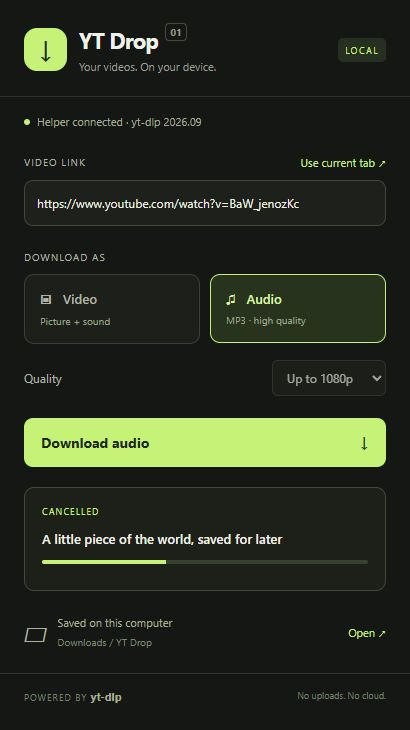
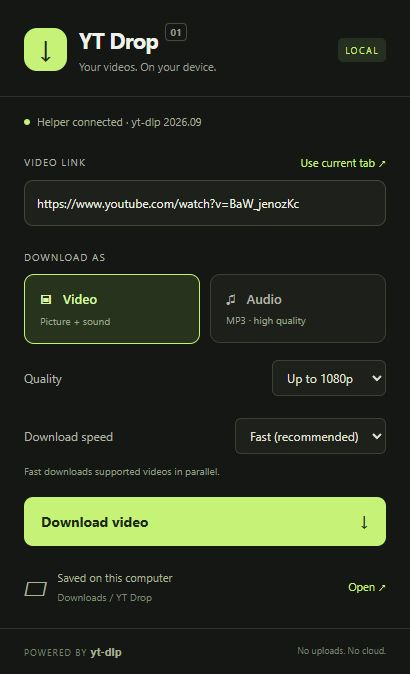
Speed up segmented downloads with default Fast mode

diff --git a/extension/popup.css b/extension/popup.css
@@ -1,1 +1,2 @@
 :root{color-scheme:dark;font-family:Inter,"Segoe UI",sans-serif;color:#f0f2ea;background:#151714;font-size:13px}*{box-sizing:border-box}body{width:410px;margin:0}header{display:flex;align-items:center;gap:12px;padding:25px 24px 22px;border-bottom:1px solid #30342c}.brand-mark{background:#c5f277;color:#20291a;font-size:31px;font-weight:600;width:43px;height:43px;display:grid;place-items:center;border-radius:13px}header strong{font-size:22px;letter-spacing:-.8px}.version{font-size:10px;vertical-align:top;color:#92998a;border:1px solid #464d3e;border-radius:4px;padding:1px 4px;margin-left:7px;letter-spacing:0}header p{color:#999f92;margin:4px 0 0;font-size:11px}.local{margin-left:auto;color:#c5f277;font-size:9px;letter-spacing:1.5px;background:#253020;padding:6px 7px;border-radius:5px}main{padding:0 24px}.connection{display:flex;align-items:center;gap:7px;font-size:11px;color:#a2aa99;padding:17px 0 24px;line-height:1.5}.connection #connection{flex:1}.dot{width:6px;height:6px;flex-shrink:0;border-radius:50%;background:#d7ad6d}.dot.ready{background:#c5f277}.label-row{display:flex;align-items:center;justify-content:space-between;margin-bottom:10px}label,legend,.history-label{font-size:10px;letter-spacing:1px;color:#b0b6a7}button,input,select{font:inherit}button{cursor:pointer}button:disabled{cursor:default;opacity:.4}.text-button{border:0;background:none;color:#c5f277;padding:0;font-size:11px;letter-spacing:0}.text-button:hover{text-decoration:underline}input[type=url]{width:100%;border:1px solid #414639;background:#1e211b;border-radius:9px;padding:14px 12px;color:#edf2e4;font-size:12px;outline:none}input::placeholder{color:#737b69}input:focus-visible,select:focus-visible,button:focus-visible{outline:2px solid #c5f277;outline-offset:3px}fieldset{border:0;margin:24px 0 16px;padding:0}legend{padding:0;margin-bottom:10px}.modes{display:flex;gap:10px}.mode{flex:1;position:relative;letter-spacing:0;cursor:pointer}.mode input{position:absolute;opacity:0}.mode span{display:block;padding:15px;border:1px solid #3a4032;border-radius:10px;background:#1d201a}.mode input:checked+span{border-color:#c5f277;background:#28331e;color:#d7f7a5}.mode input:focus-visible+span{outline:2px solid #c5f277;outline-offset:3px}.mode b{font-size:13px;font-weight:600}.mode small{display:block;margin-top:6px;color:#9ca58e;font-size:10px}.quality-row{display:flex;align-items:center;justify-content:space-between;margin:16px 0 22px}.quality-row label{font-size:12px;letter-spacing:0}select{background:#1e211b;border:1px solid #3a4032;color:#e0e5d8;border-radius:6px;padding:8px 10px;font-size:12px}.primary{display:flex;justify-content:space-between;align-items:center;width:100%;background:#c5f277;color:#1d2813;border:0;border-radius:9px;padding:15px 17px;font-weight:650;font-size:14px}.primary:hover:enabled{background:#d3ff8d}.primary span:last-child{font-size:20px;line-height:16px}.error{color:#ffb4a7;font-size:12px;line-height:1.5;overflow-wrap:anywhere;margin:12px 0}.job{padding:17px;margin-top:20px;border:1px solid #414936;border-radius:10px;background:#1c2019}.job-top{display:flex;justify-content:space-between;color:#c5f277;font-size:9px;letter-spacing:1.1px}h2{font-size:13px;font-weight:500;line-height:1.5;margin:12px 0;overflow-wrap:anywhere}progress{appearance:none;width:100%;height:4px;display:block;border:0;border-radius:8px;overflow:hidden;background:#384130}progress::-webkit-progress-bar{background:#384130}progress::-webkit-progress-value{background:#c5f277}.progress-meta{display:flex;justify-content:space-between;margin-top:9px;color:#a4af97;font-size:10px}.filename{font-size:10px;color:#aab59c;overflow-wrap:anywhere;margin-bottom:0}.destination{display:flex;align-items:center;gap:10px;margin:24px 0;color:#aab39c}.destination>span{font-size:24px}.destination div{flex:1;font-size:11px}.destination small{display:block;color:#7f8974;font-size:10px;margin-top:5px;overflow-wrap:anywhere;max-width:258px}footer{border-top:1px solid #30342c;padding:15px 24px;display:flex;justify-content:space-between;font-size:9px;color:#77816c}footer span:first-child{letter-spacing:1px}footer b{color:#a6b196;letter-spacing:0;font-size:11px}.history-label{margin-top:22px;font-size:9px}.history-label span:last-child{color:#697460;font-size:8px}ul{list-style:none;padding:0;margin:0}li{border-bottom:1px solid #2b3125;padding:9px 0;color:#a9b29d;font-size:11px;display:flex;gap:8px}li span:first-child{overflow:hidden;text-overflow:ellipsis;white-space:nowrap;flex:1}li span:last-child{font-size:9px;color:#859973}[hidden]{display:none!important}
+.speed-note{margin:-12px 0 18px;color:#929e84;font-size:10px;line-height:1.5}

diff --git a/extension/popup.js b/extension/popup.js
@@ -58,8 +58,8 @@ $("form").addEventListener("submit", async event => {
   event.preventDefault(); $("error").hidden = true;
   try {
     const url = youtubeUrl($("url").value);
-    await chrome.storage.local.set({ mode: mode(), quality: $("quality").value });
-    await send({ type: "download", url, mode: mode(), quality: $("quality").value });
+    await chrome.storage.local.set({ mode: mode(), quality: $("quality").value, speed: $("speed").value });
+    await send({ type: "download", url, mode: mode(), quality: $("quality").value, speed: $("speed").value });
   } catch (error) { showError(error); }
 });
 $("current").addEventListener("click", () => useCurrentTab());
@@ -69,9 +69,10 @@ for (const [id, type] of [["cancel", "cancel"], ["retry", "retry"], ["openFolder
 document.querySelectorAll('input[name="mode"]').forEach(input => input.addEventListener("change", updateMode));
 chrome.runtime.onMessage.addListener(message => { if (message.type === "state") render(message.state); });
 async function init() {
-  const saved = await chrome.storage.local.get(["mode", "quality"]);
+  const saved = await chrome.storage.local.get(["mode", "quality", "speed"]);
   if (["audio", "video"].includes(saved.mode)) document.querySelector(`input[value="${saved.mode}"]`).checked = true;
   if (["best", "2160", "1080", "720", "480"].includes(saved.quality)) $("quality").value = saved.quality;
+  if (["fast", "standard"].includes(saved.speed)) $("speed").value = saved.speed;
   updateMode();
   await useCurrentTab(true);
   await send({ type: "getState" });

diff --git a/tests/background.test.js b/tests/background.test.js
@@ -22,6 +22,7 @@ test('native download lifecycle survives popup requests, rejects concurrent jobs
   assert.equal(result.ok, true);
   const id = result.state.job.id;
   assert.equal(posted.at(-1).url, 'https://www.youtube.com/watch?v=BaW_jenozKc');
+  assert.equal(posted.at(-1).speed, 'fast');
   const duplicate = await request({ type: 'download' });
   assert.equal(duplicate.ok, false);
   onMessage({ type: 'job', id: 'unknown-job', status: 'complete' });
@@ -33,8 +34,13 @@ test('native download lifecycle survives popup requests, rejects concurrent jobs
   assert.deepEqual(posted.at(-1), { type: 'cancel', id });
   onMessage({ type: 'job', id, status: 'complete', filename: 'test.mkv' });
   assert.equal(stored.state.history.length, 1);
-  result = await request({ type: 'download', url: 'https://youtu.be/BaW_jenozKc', mode: 'audio', quality: 'best' });
+  const invalid = await request({ type: 'download', url: 'https://youtu.be/BaW_jenozKc', mode: 'audio', quality: 'best', speed: '--exec=calc' });
+  assert.equal(invalid.ok, false);
+  assert.equal(stored.state.job.status, 'complete');
+  result = await request({ type: 'download', url: 'https://youtu.be/BaW_jenozKc', mode: 'audio', quality: 'best', speed: 'standard' });
   assert.equal(result.ok, true);
+  assert.equal(posted.at(-1).speed, 'standard');
+  assert.equal(result.state.job.speed, 'standard');
   chrome.runtime.lastError = { message: 'Host closed' };
   onDisconnect();
   assert.equal(stored.state.job.status, 'error');

diff --git a/extension/background.js b/extension/background.js
@@ -66,7 +66,9 @@ chrome.runtime.onMessage.addListener((message, sender, respond) => {
       if (state.job && !TERMINAL.has(state.job.status)) throw new Error("Wait for the current download or cancel it.");
       const url = youtubeUrl(message.url);
       if (!["video", "audio"].includes(message.mode) || !["best", "2160", "1080", "720", "480"].includes(message.quality)) throw new Error("Invalid download options.");
-      state.job = { id: crypto.randomUUID(), url, mode: message.mode, quality: message.quality, status: "starting", title: "Getting video details…", percent: 0 };
+      const speed = message.speed === undefined ? "fast" : message.speed;
+      if (!["fast", "standard"].includes(speed)) throw new Error("Invalid download speed.");
+      state.job = { id: crypto.randomUUID(), url, mode: message.mode, quality: message.quality, speed, status: "starting", title: "Getting video details…", percent: 0 };
       port.postMessage({ type: "download", ...state.job });
       publish();
     } else if (message.type === "cancel" && state.job && !TERMINAL.has(state.job.status)) {

diff --git a/extension/popup.html b/extension/popup.html
@@ -13,6 +13,8 @@
         <label class="mode"><input type="radio" name="mode" value="audio"><span><b>♫ &nbsp; Audio</b><small>MP3 · high quality</small></span></label>
       </div></fieldset>
       <div class="quality-row"><label for="quality">Quality</label><select id="quality"><option value="1080">Up to 1080p</option><option value="720">Up to 720p</option><option value="480">Up to 480p</option><option value="2160">Up to 4K</option><option value="best">Best available</option></select></div>
+      <div class="quality-row"><label for="speed">Download speed</label><select id="speed" aria-describedby="speedHint"><option value="fast">Fast (recommended)</option><option value="standard">Standard</option></select></div>
+      <p id="speedHint" class="speed-note">Fast downloads supported videos in parallel.</p>
       <button id="download" class="primary" type="submit" disabled><span>Download video</span><span aria-hidden="true">↓</span></button>
       <p id="error" class="error" role="alert" hidden></p>
     </form>

diff --git a/tests/benchmark_fragments.py b/tests/benchmark_fragments.py
@@ -1,0 +1,129 @@
+"""Optional real yt-dlp benchmark using generated media and a delayed local server.
+
+Run with the helper's Python (yt-dlp installed) and FFmpeg/ffprobe on PATH:
+  python tests/benchmark_fragments.py --output-dir path/to/benchmark-results
+Results describe this synthetic workload, not promised YouTube transfer rates.
+"""
+import argparse
+import functools
+import hashlib
+from http.server import SimpleHTTPRequestHandler, ThreadingHTTPServer
+import json
+from pathlib import Path
+import shutil
+import subprocess
+import sys
+import threading
+import time
+
+sys.path.insert(0, str(Path(__file__).resolve().parents[1] / "native"))
+import host
+
+
+def main():
+    parser = argparse.ArgumentParser(description=__doc__)
+    parser.add_argument("--output-dir", required=True, type=Path)
+    args = parser.parse_args()
+    folder = args.output_dir.resolve() / str(time.time_ns())
+    folder.mkdir(parents=True)
+    ffmpeg, ffprobe = shutil.which("ffmpeg"), shutil.which("ffprobe")
+    runtime = "deno" if shutil.which("deno") else "node"
+    runtime_path = shutil.which(runtime)
+    if not all((ffmpeg, ffprobe, runtime_path)):
+        raise SystemExit("FFmpeg, ffprobe, and Node.js/Deno must be on PATH.")
+    subprocess.run([
+        ffmpeg, "-hide_banner", "-loglevel", "error", "-f", "lavfi", "-i", "testsrc2=size=320x180:rate=10",
+        "-f", "lavfi", "-i", "sine=frequency=440:sample_rate=44100", "-t", "8",
+        "-c:v", "libx264", "-preset", "ultrafast", "-g", "5", "-sc_threshold", "0",
+        "-c:a", "aac", "-f", "hls", "-hls_time", "0.5", "-hls_list_size", "0",
+        "-hls_segment_filename", str(folder / "part%03d.ts"), str(folder / "index.m3u8"),
+    ], check=True)
+
+    class Handler(SimpleHTTPRequestHandler):
+        lock = threading.Lock()
+        active = peak = requests = 0
+        first = last = None
+
+        def do_GET(self):
+            if not self.path.endswith(".ts"):
+                return super().do_GET()
+            with Handler.lock:
+                Handler.active += 1
+                Handler.requests += 1
+                Handler.peak = max(Handler.peak, Handler.active)
+                if Handler.first is None:
+                    Handler.first = time.perf_counter()
+            try:
+                # A controlled latency cost makes concurrency measurable without
+                # public servers, a fast WAN connection, or large downloads.
+                time.sleep(0.15)
+                super().do_GET()
+            finally:
+                with Handler.lock:
+                    Handler.active -= 1
+                    Handler.last = time.perf_counter()
+
+        def log_message(self, *args):
+            pass
+
+    class Server(ThreadingHTTPServer):
+        request_queue_size = 32
+
+    server = Server(("127.0.0.1", 0), functools.partial(Handler, directory=str(folder)))
+    thread = threading.Thread(target=server.serve_forever, daemon=True)
+    thread.start()
+    url = f"http://127.0.0.1:{server.server_port}/index.m3u8"
+    info = {"id": "fixture0001", "title": "Fragment benchmark", "extractor": "generic",
+            "extractor_key": "Generic", "webpage_url": url, "url": url, "ext": "mp4",
+            "protocol": "m3u8_native", "is_live": False, "height": 180, "width": 320,
+            "vcodec": "h264", "acodec": "aac"}
+    info_file = folder / "info.json"
+    info_file.write_text(json.dumps(info), encoding="utf-8")
+    results = {}
+    try:
+        for speed in ("standard", "fast"):
+            Handler.active = Handler.peak = Handler.requests = 0
+            Handler.first = Handler.last = None
+            config = {"download_dir": str(folder / speed), "ffmpeg": ffmpeg, "ffprobe": ffprobe,
+                      "runtime": runtime, "runtime_path": runtime_path}
+            events = []
+            bridge = host.Host(config, events.append)
+            bridge.job = "benchmark"
+            job = {"url": "https://youtu.be/BaW_jenozKc", "mode": "video", "quality": "480", "speed": speed}
+            command = host.build_command(job, config)
+            # Only this test substitutes local fixture metadata; the production
+            # helper continues to reject all non-YouTube input URLs.
+            command = command[:-2] + ["--load-info-json", str(info_file)]
+            start = time.perf_counter()
+            bridge.download("benchmark", command)
+            elapsed = time.perf_counter() - start
+            assert events[-1].get("status") == "complete", events[-1]
+            assert any(e.get("status") == "downloading" for e in events), events
+            output = Path(events[-1]["filename"])
+            probe = json.loads(subprocess.check_output([
+                ffprobe, "-v", "error", "-show_entries", "format=duration", "-of", "json", str(output)
+            ]))
+            assert float(probe["format"]["duration"]) >= 8
+            results[speed] = {"total_seconds": round(elapsed, 3),
+                              "transfer_seconds": round(Handler.last - Handler.first, 3),
+                              "peak_parallel_requests": Handler.peak,
+                              "fragment_requests": Handler.requests,
+                              "sha256": hashlib.sha256(output.read_bytes()).hexdigest()}
+            print(speed, json.dumps(results[speed]), flush=True)
+        assert results["standard"]["peak_parallel_requests"] == 1
+        assert 1 < results["fast"]["peak_parallel_requests"] <= 8
+        assert results["standard"]["sha256"] == results["fast"]["sha256"], "Output content differs"
+        results["total_speedup"] = round(results["standard"]["total_seconds"] / results["fast"]["total_seconds"], 2)
+        results["transfer_speedup"] = round(results["standard"]["transfer_seconds"] / results["fast"]["transfer_seconds"], 2)
+        results["note"] = "Synthetic local HLS test, 150 ms delay per fragment. Not a YouTube speed guarantee."
+        (folder / "results.json").write_text(json.dumps(results, indent=2), encoding="utf-8")
+        print(json.dumps(results, indent=2))
+        print("Results:", folder / "results.json")
+    finally:
+        server.shutdown()
+        server.server_close()
+        thread.join(timeout=5)
+
+
+if __name__ == "__main__":
+    main()

diff --git a/native/host.py b/native/host.py
@@ -14,6 +14,7 @@ MAX_MESSAGE = 65536
 WRITE_LOCK = threading.Lock()
 CONFIG_FILE = Path(__file__).with_name("config.json")
 CREATE_FLAGS = subprocess.CREATE_NO_WINDOW if os.name == "nt" else 0
+FRAGMENT_COUNTS = {"standard": 1, "fast": 8}
 
 
 def read_exact(stream, size):
@@ -76,17 +77,21 @@ def build_command(job, config):
     mode, quality = job.get("mode"), job.get("quality")
     if mode not in {"video", "audio"} or quality not in {"best", "2160", "1080", "720", "480"}:
         raise ValueError("Invalid download options")
+    speed = job.get("speed", "fast")
+    if not isinstance(speed, str) or speed not in FRAGMENT_COUNTS:
+        raise ValueError("Invalid download speed")
     folder = str(Path(config["download_dir"]).expanduser().resolve())
     command = [sys.executable, "-m", "yt_dlp", "--ignore-config", "--no-plugin-dirs",
                "--no-playlist", "--no-colors", "--newline", "--progress", "--progress-delta", "0.5",
                "--socket-timeout", "30", "--retries", "3", "--fragment-retries", "3",
+               "--concurrent-fragments", str(FRAGMENT_COUNTS[speed]),
                "--windows-filenames", "--trim-filenames", "180", "--no-overwrites", "--no-simulate",
                "--match-filters", "!is_live", "--ffmpeg-location", config["ffmpeg"],
                "--no-js-runtimes", "--js-runtimes", config["runtime"] + ":" + config["runtime_path"],
                "--paths", folder, "--output", "%(title).140B [%(id)s].%(ext)s",
                "--print", 'before_dl:YTDROP_META:%(.{title,id})j',
                "--print", 'after_move:YTDROP_FILE:%(filepath)j',
-               "--progress-template", 'download:YTDROP_PROGRESS:%(progress)j',
+               "--progress-template", 'download:YTDROP_PROGRESS:%(progress.{status,downloaded_bytes,total_bytes,total_bytes_estimate,speed,eta})j',
                "--progress-template", 'postprocess:YTDROP_PROCESS:%(progress.status)j']
     if mode == "audio":
         command += ["--format", "bestaudio/best", "--extract-audio", "--audio-format", "mp3", "--audio-quality", "0"]

diff --git a/tests/test_host.py b/tests/test_host.py
@@ -35,6 +35,27 @@ class FramingTests(unittest.TestCase):
 
 
 class ValidationTests(unittest.TestCase):
+    def test_speed_modes_keep_quality_and_audio_settings(self):
+        for mode in ('video', 'audio'):
+            for speed, count in [('standard', '1'), ('fast', '8')]:
+                command = host.build_command({**JOB, 'mode': mode, 'speed': speed}, CONFIG)
+                with self.subTest(mode=mode, speed=speed):
+                    self.assertEqual(command[command.index('--concurrent-fragments') + 1], count)
+                    if mode == 'video':
+                        self.assertIn('bv*[height<=1080]+ba/b[height<=1080]', command)
+                    else:
+                        self.assertEqual(command[command.index('--audio-quality') + 1], '0')
+                        self.assertIn('mp3', command)
+
+    def test_old_requests_default_to_fast(self):
+        command = host.build_command(JOB, CONFIG)
+        self.assertEqual(command[command.index('--concurrent-fragments') + 1], '8')
+
+    def test_rejects_arbitrary_speed_arguments(self):
+        for speed in ('turbo', '--exec=calc', 1000, None, {}):
+            with self.subTest(speed=speed), self.assertRaises(ValueError):
+                host.build_command({**JOB, 'speed': speed}, CONFIG)
+
     def test_video_links(self):
         for link in [JOB['url'], 'https://m.youtube.com/watch?v=BaW_jenozKc&list=x', 'https://youtube.com/shorts/BaW_jenozKc', 'https://music.youtube.com/watch?v=BaW_jenozKc', 'https://youtube.com/live/BaW_jenozKc']:
             self.assertEqual(host.youtube_url(link), 'https://www.youtube.com/watch?v=BaW_jenozKc')

diff --git a/README.md b/README.md
@@ -8,11 +8,12 @@ A Chrome Manifest V3 extension for downloading individual YouTube videos and Sho
 - Choose video quality up to 480p, 720p, 1080p, 4K, or best available.
 - Extract high-quality MP3 audio with FFmpeg.
 - See download progress, speed, and estimated time remaining.
+- Use **Fast** mode (enabled by default) to fetch up to eight video fragments in parallel.
 - Cancel a download, view recent jobs, and open the download folder.
 - Continue downloading after closing the popup while Chrome stays open.
 - Keep files on your computer through a local helper, with no hosted backend.
 
-<img src="docs/popup-preview.png" alt="YT Drop popup showing audio selection and a cancelled sample download" width="410">
+<img src="docs/popup-preview.png" alt="YT Drop popup with Fast download mode selected" width="410">
 
 *UI preview with sample data.*
 
@@ -65,9 +66,28 @@ Chrome cannot execute yt-dlp itself. The extension's service worker connects to 
 - **One download at a time.** Cancelling terminates the yt-dlp process tree, including FFmpeg. Partial files are retained for resumption. Existing final files are not overwritten.
 - **Privacy:** the extension reads the current tab only when opened, requests no broad website access, and stores preferences locally. Recent job details are kept only for the browser session. yt-dlp contacts YouTube and its media servers; no media passes through a third-party service operated by this extension.
 
+## Download speed
+
+Version **1.1.0** enables **Fast** mode by default. It uses yt-dlp's [concurrent fragment downloads](https://github.com/yt-dlp/yt-dlp#download-options) to fetch up to **8 parts at once**, instead of one, for native DASH/HLS downloads. The popup remembers your choice. Choose **Standard** for one fragment at a time if Fast stalls on your connection.
+
+This keeps the same quality selection and output formats. Direct single-file HTTP downloads do not gain parallel connections from this option; extraction, merging, and MP3 conversion also take their own time. Actual improvement depends on the video's delivery format, your connection, and YouTube's servers. Choosing a lower video resolution also reduces the amount of data to download.
+
+A reproducible local HLS benchmark with 16 fragments and an artificial 150 ms delay per fragment measured:
+
+| Mode | Total time including startup and processing | Fragment transfer time | Peak concurrent requests |
+| --- | ---: | ---: | ---: |
+| Standard | 3.98 s | 2.67 s | 1 |
+| Fast | 1.49 s | 0.32 s | 8 |
+
+The resulting files had identical SHA-256 hashes. **This is a synthetic benchmark, not a promised YouTube speedup.** See [the benchmark script](tests/benchmark_fragments.py) to reproduce it with a Python environment containing yt-dlp and FFmpeg/ffprobe plus Node.js or Deno on PATH:
+
+```powershell
+python tests/benchmark_fragments.py --output-dir "$env:TEMP\ytdrop-benchmark"
+```
+
 ## Update / troubleshoot
 
-Close Chrome and rerun `install.ps1` to refresh the helper, extension files, and yt-dlp. Reopen Chrome; reload the unpacked extension if needed. Updates install from PyPI; yt-dlp is deliberately not pinned because YouTube changes regularly.
+Get the latest repository files (`git pull` or download a fresh ZIP), close Chrome, and rerun `install.ps1` to refresh the helper, extension files, and yt-dlp. Reopen Chrome; reload the unpacked extension if needed. Updates install from PyPI; yt-dlp is deliberately not pinned because YouTube changes regularly. When upgrading from 1.0.0, update both the extension and the helper for Fast mode to take effect.
 
 - **“Manifest file is missing or unreadable”:** you selected the repository root. Use **Load unpacked** again and choose its `extension` subfolder, or the installed extension folder printed by setup. That folder must contain `manifest.json` directly.
 - **Helper not found:** run setup, ensure you loaded the installed extension folder, and click Retry. If its ID differs from the ID printed by setup, restore the original manifest including its `key` field.

diff --git a/VALIDATION.md b/VALIDATION.md
@@ -1,10 +1,18 @@
 # Validation — 27 September 2026
 
 - 15 JavaScript tests passed: URL handling and service-worker download lifecycle.
-- 12 Python tests passed: message framing, URL validation, fixed command arguments, progress, failures, concurrency, and cancellation.
+- 15 Python tests passed: message framing, URL validation, fixed command arguments, speed modes, backwards-compatible defaults, progress, failures, concurrency, and cancellation.
 - Actual yt-dlp 2026.8.19 downloaded a generated video fixture and converted an audio fixture to MP3 using FFmpeg 8.1.1.
 - Actual yt-dlp successfully downloaded YouTube's “Me at the zoo” (`jNQXAC9IVRw`) as an MKV file through this helper's download path.
 - Installed the per-user Windows helper; verified the registry manifest, exact extension allowlist, CMD launcher, and binary native messaging handshake.
 - Browser preview verified audio selection, quality disabling, progress display, and keyboard cancellation using a mock Chrome API.
 
 The complete Chrome-extension-to-native-host connection still needs verification after loading the unpacked extension in Chrome. The browser preview is a UI test, not a recording of the live YouTube download. Private/authenticated content, playlist downloads, and active live broadcasts are outside this build's scope.
+
+## Version 1.1.0 speed update
+
+- Verified default Fast and explicit Standard modes, speed validation in both the service worker and host, and preservation of resolution and MP3 quality settings.
+- A real yt-dlp HLS benchmark fetched 16 generated fragments from a local server that added 150 ms latency to each request. Standard: 3.979 seconds total, 2.665 seconds transfer, one concurrent request. Fast: 1.488 seconds total, 0.321 seconds transfer, eight concurrent requests. Final output hashes matched and ffprobe verified duration.
+- Rechecked a live YouTube download, native handshake, generated video download, and MP3 conversion with the new compact progress messages.
+- Browser preview checked the default Fast selection, Standard submission, and persistence of Standard after reopening the preview with a mock Chrome storage API.
+- The synthetic benchmark demonstrates concurrency, not guaranteed improvement for every YouTube URL. Single-file HTTP downloads and MP3 conversion are not accelerated by the fragment concurrency setting.
